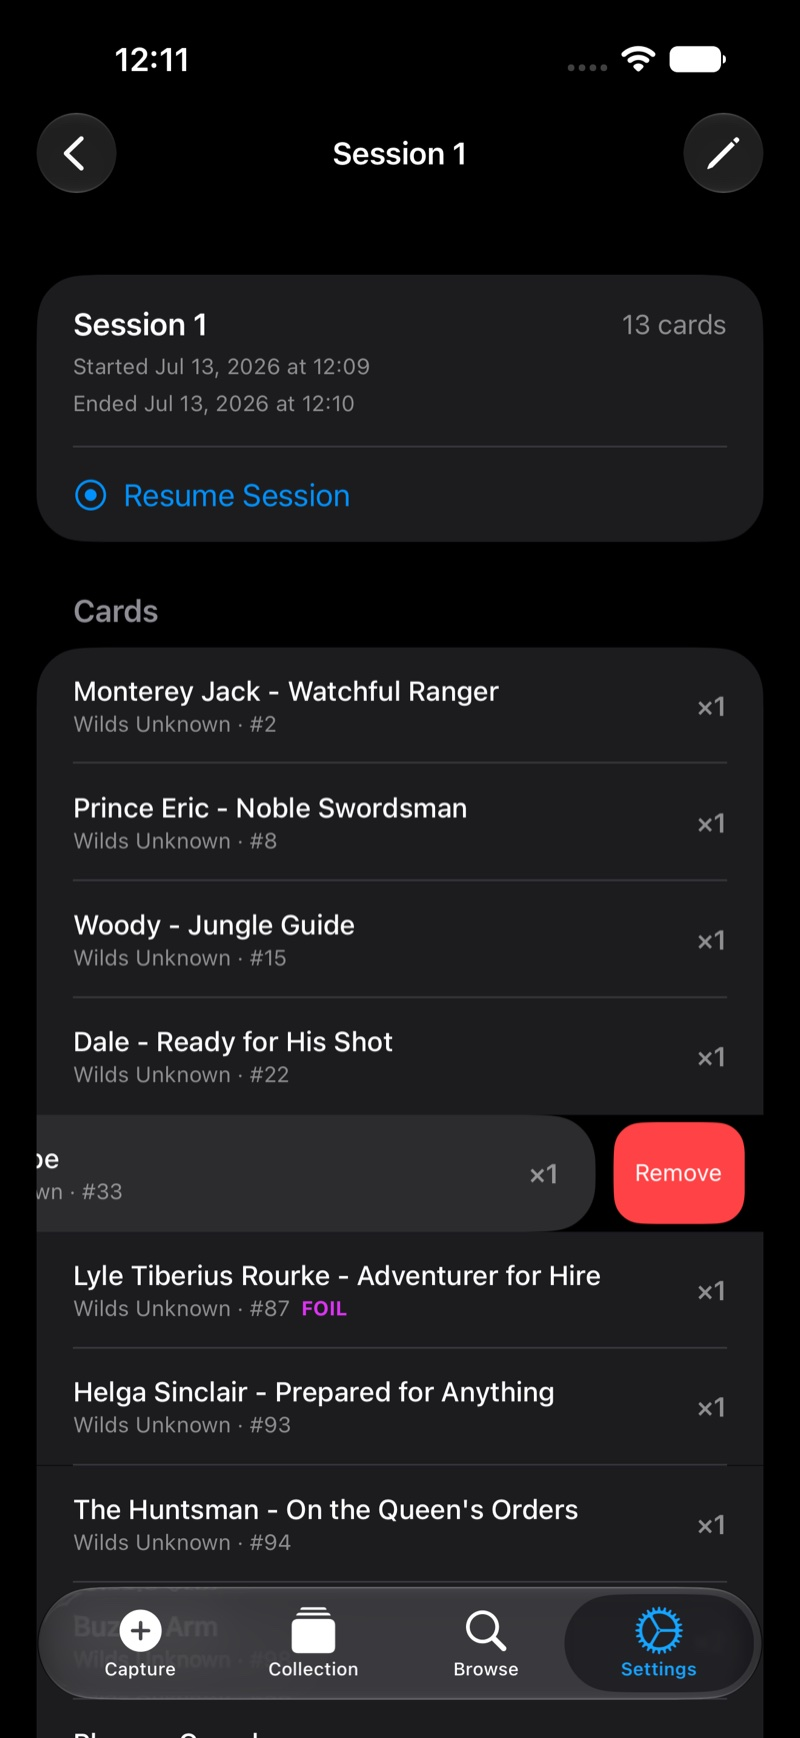
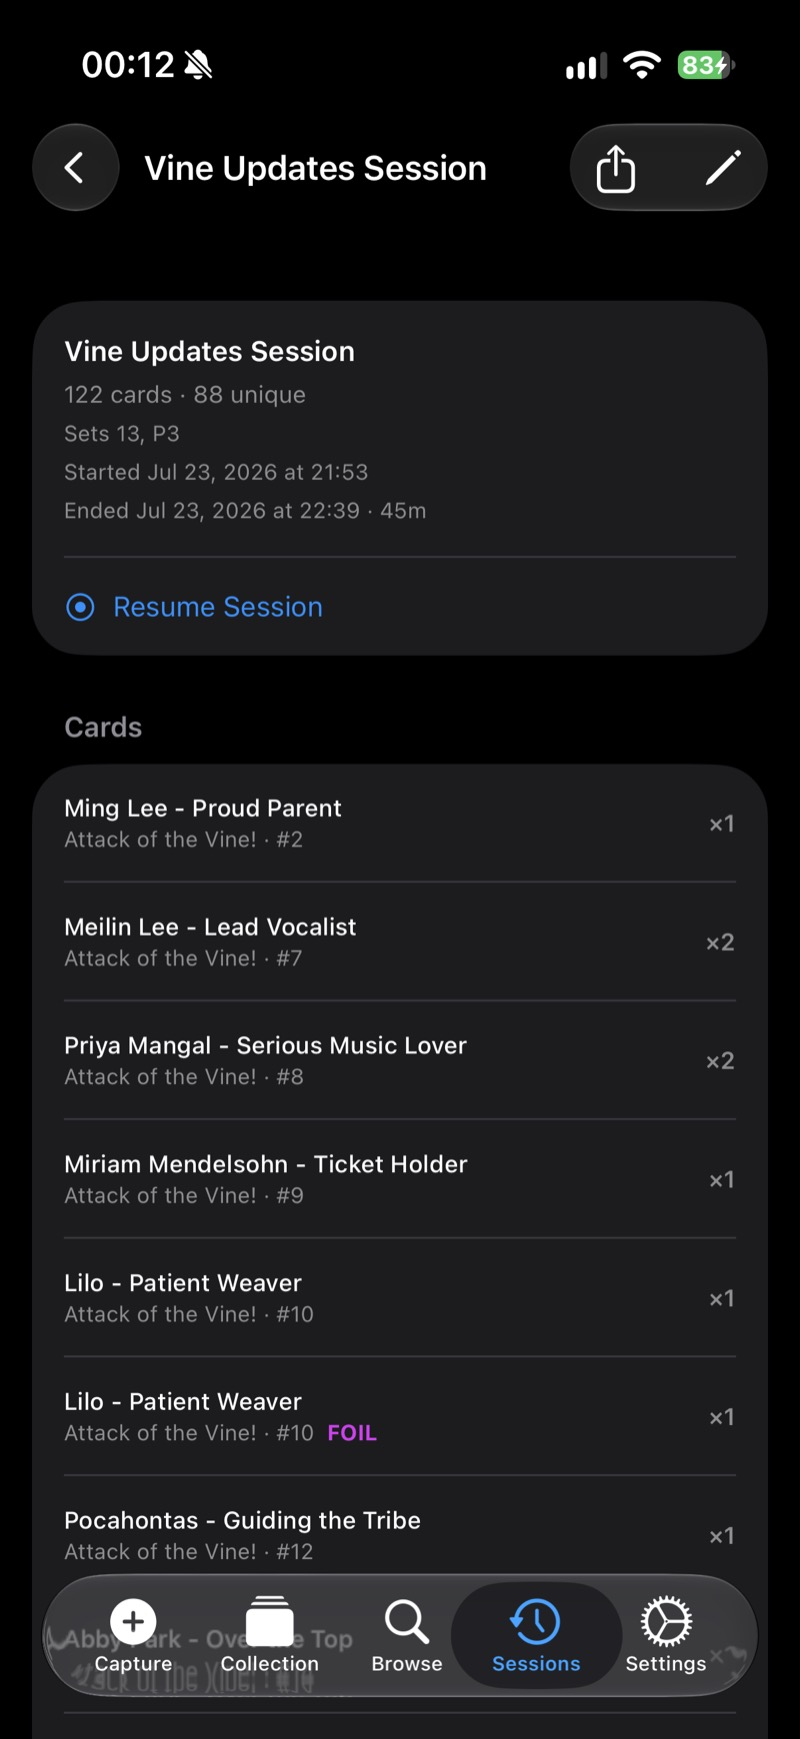
v1.3 release: What's New entry, Session Mode screenshots
whatsnew.html: add the v1.3 shipped entry (new Sessions tab, four new
promo sets including Format Coconut, Hide Owned toggle, improved promo
browsing/Dreamborn coverage, voice numbered-sets-only, CC1 card-number
validation fix); remove the old "Coming soon" Session Manager teaser
now that it's shipped; fix a pre-existing missing </ul> in the v1.2.1
entry.

index.html: SESSION MODE section now shows the new Sessions tab (list
with an active recording card and past-session stats) and an updated
session detail screenshot (stats header, resume, export), replacing
the old Settings-based Session Manager screenshots. Hero banner left
as-is (still the capture-screen shot).

diff --git a/whatsnew.html b/whatsnew.html
@@ -160,35 +160,26 @@
     ============================================================================ -->
 
     <!-- ── Coming soon ──  (each <section class="coming"> is one upcoming release; add/remove cards freely, or delete the whole .coming-stack if nothing is in the works) -->
-    <div class="coming-stack">
-
-      <section class="coming" data-screen-label="coming-soon">
-        <span class="tag">In development - v1.3</span>
-        <h2>Session manager</h2>
-        <p class="lede">More control over the sessions you've already logged, right from Settings. The new session manager lets you view previous or active sessions, delete cards from a session (removes from collection), rename and resume a previous session. Exporting your sessions to Dreamborn is even better.</p>
-        <ul class="changes">
-          <li><span class="chip new">New</span><span>Session Manager. View your past sessions from Settings.</span></li>
-        </ul>
-      </section>
-      <!-- <section class="coming" data-screen-label="coming-soon">
-        <span class="tag">Up next · v1.3</span>
-        <h2>Attack of the Vine!, and a big reliability pass</h2>
-        <p class="lede">The newest set, plus a serious accuracy pass on voice capture.</p>
-        <ul class="changes">
-          <li><span class="chip new">New</span><span>Set 13 "Attack of the Vine!" added to the catalog.</span></li>
-          <li><span class="chip imp">Improved</span><span>Major voice-capture reliability pass: fewer misheard or phantom cards, and steadier handling when you're interrupted mid-sentence.</span></li>
-          <li><span class="chip fix">Fixed</span><span>Dreamborn import and export for promo cards, which were intentionally skipped previously.</span></li>
-          <li><span class="chip fix">Fixed</span><span>Exported collections could contain duplicate rows, inflating card counts when re-imported elsewhere.</span></li>
-          <li><span class="chip fix">Fixed</span><span>iPad layout issues.</span></li>
-        </ul> -->
-      </section>
-
-
-    </div>
 
     <!-- ── Shipped releases ──  (newest first; paste new <article class="rel"> blocks at the TOP) -->
     <p class="shipped-label">Shipped</p>
     <div class="timeline">
+      <article class="rel" data-screen-label="release">
+        <div class="rel-dot"></div>
+        <div class="rel-head"><span class="ver">v1.3</span></div>
+        <h3>Session Manager! New tab, plus four new promo sets.</h3>
+        <ul class="changes">
+          <li><span class="chip new">New</span><span>Sessions now have their own tab. See every past session's card details, date recorded, and export them at any time.</span></li>
+          <li><span class="chip new">New</span><span>Rename, resume, or delete a session right from the Sessions tab. Mess something up? Optionally remove individual or all cards from the sesssion and/or collection.</span></li>
+          <li><span class="chip new">New</span><span>Export any single session on its own, in whichever format you need, with a summary of what exported and what didn't.</span></li>
+          <li><span class="chip new">New</span><span>Four new promo sets added: P4, Curator's Collection: Heroines, PD1, and Format Coconut — the newest digital-only beta format (it's not a physical release yet but there if you want it).</span></li>
+          <li><span class="chip new">New</span><span>New "Hide Owned" toggle when browsing a set, so you only see what you still need.</span></li>
+          <li><span class="chip imp">Improved</span><span>Promo sets are listed by release date with clearer names, and Dreamborn export now recognizes more of them.</span></li>
+          <li><span class="chip imp">Improved</span><span>Voice capture is now focused on numbered sets and drops support for promo cards. This allows me to improve accuracy without accouting for promo combinations.</span></li>
+          <li><span class="chip fix">Fixed</span><span>A card number that doesn't exist in a set (like a typo on a promo card) could be added to your collection and is now restricted to the catalogue on device. Reduces live api updates but fix for that later.</span></li>
+        </ul>
+      </article>
+
       <article class="rel" data-screen-label="release">
         <div class="rel-dot"></div>
         <div class="rel-head"><span class="ver">v1.2.1</span></div>
@@ -199,7 +190,7 @@
           <li><span class="chip fix">Fixed</span><span>Dreamborn import and export for promo cards, which were intentionally skipped previously.</span></li>
           <li><span class="chip fix">Fixed</span><span>Exported collections could contain duplicate rows, inflating card counts when re-imported elsewhere.</span></li>
           <li><span class="chip fix">Fixed</span><span>iPad layout issues.</span></li>
-
+        </ul>
       </article>
 
       <article class="rel" data-screen-label="release">

diff --git a/index.html b/index.html
@@ -279,8 +279,8 @@
 
     <!-- ── UPDATE STRIP ── -->
     <a class="update-strip" href="whatsnew.html" data-screen-label="update-strip">
-      <span class="tag">1.2.1 Update Live</span>
-      <p><strong>Attack of the Vine!</strong> support plus voice reliability improvements.</p>
+      <span class="tag">1.3 Update Live</span>
+      <p><strong>Session Manager!</strong> New session manager allows robust session editing. Tap + to start a session, open packs and add new cards. Each card is added to your session. You can rename sessions, remove cards from a session, collection, or both. Export the session. A great way to manage collection with regular additions.</p>
       <span class="see">See what's new <svg width="15" height="15" viewBox="0 0 24 24" fill="none" stroke="currentColor" stroke-width="2.2" stroke-linecap="round" stroke-linejoin="round"><path d="M5 12h14M13 6l6 6-6 6"/></svg></span>
     </a>
 
@@ -289,19 +289,20 @@
       <div>
         <span class="kicker">SESSION MODE</span>
         <h2>New Set? Record cards and export <span class="hl">just the new pulls</span>.</h2>
-        <p>Sessions are a powerful way to add to cards to collection and export Dreamborn without a full collection push. Just the new cards.</p>
+        <p>Sessions are a powerful way to add to cards to collection and export to Dreamborn without a full collection push. Just the new cards.</p>
         <ul class="session-steps">
           <li><span class="n">1</span><span>Open app and start a Session.</span></li>
           <li><span class="n">2</span><span>Log your cards. They land in your collection <em>and</em> the session's own tally.</span></li>
-          <li><span class="n">3</span><span>End it and export only those cards to Dreamborn or Lorcana.gg. Coming soon -> Sessions can be edited, renamed, exported, resumed, or deleted.</span></li>
+          <li><span class="n">3</span><span>End it and export only those cards to Dreamborn or Lorcana.gg. 
+            <li>Sessions can be edited, renamed, exported, resumed, or deleted.</span></li>
         </ul>
       </div>
       <div class="session-visual">
         <div class="session-shots">
-          <img src="assets/screen-session-active.jpg" alt="Capture screen with a live session badge showing 13 cards"/>
-          <img class="s2" src="assets/screen-session-detail.jpg" alt="Session detail screen listing the cards pulled in that session"/>
+          <img src="assets/screen-sessions-tab.jpg" alt="Sessions tab showing an active recording session and a list of past sessions with card counts and stats"/>
+          <img class="s2" src="assets/screen-session-detail.jpg" alt="Session detail screen listing the cards pulled in that session, with a stats header and resume option"/>
         </div>
-        <span class="cap">a session running on the capture screen + session viewer</span>
+        <span class="cap">the Sessions tab + a session's detail view</span>
       </div>
     </section>
 
